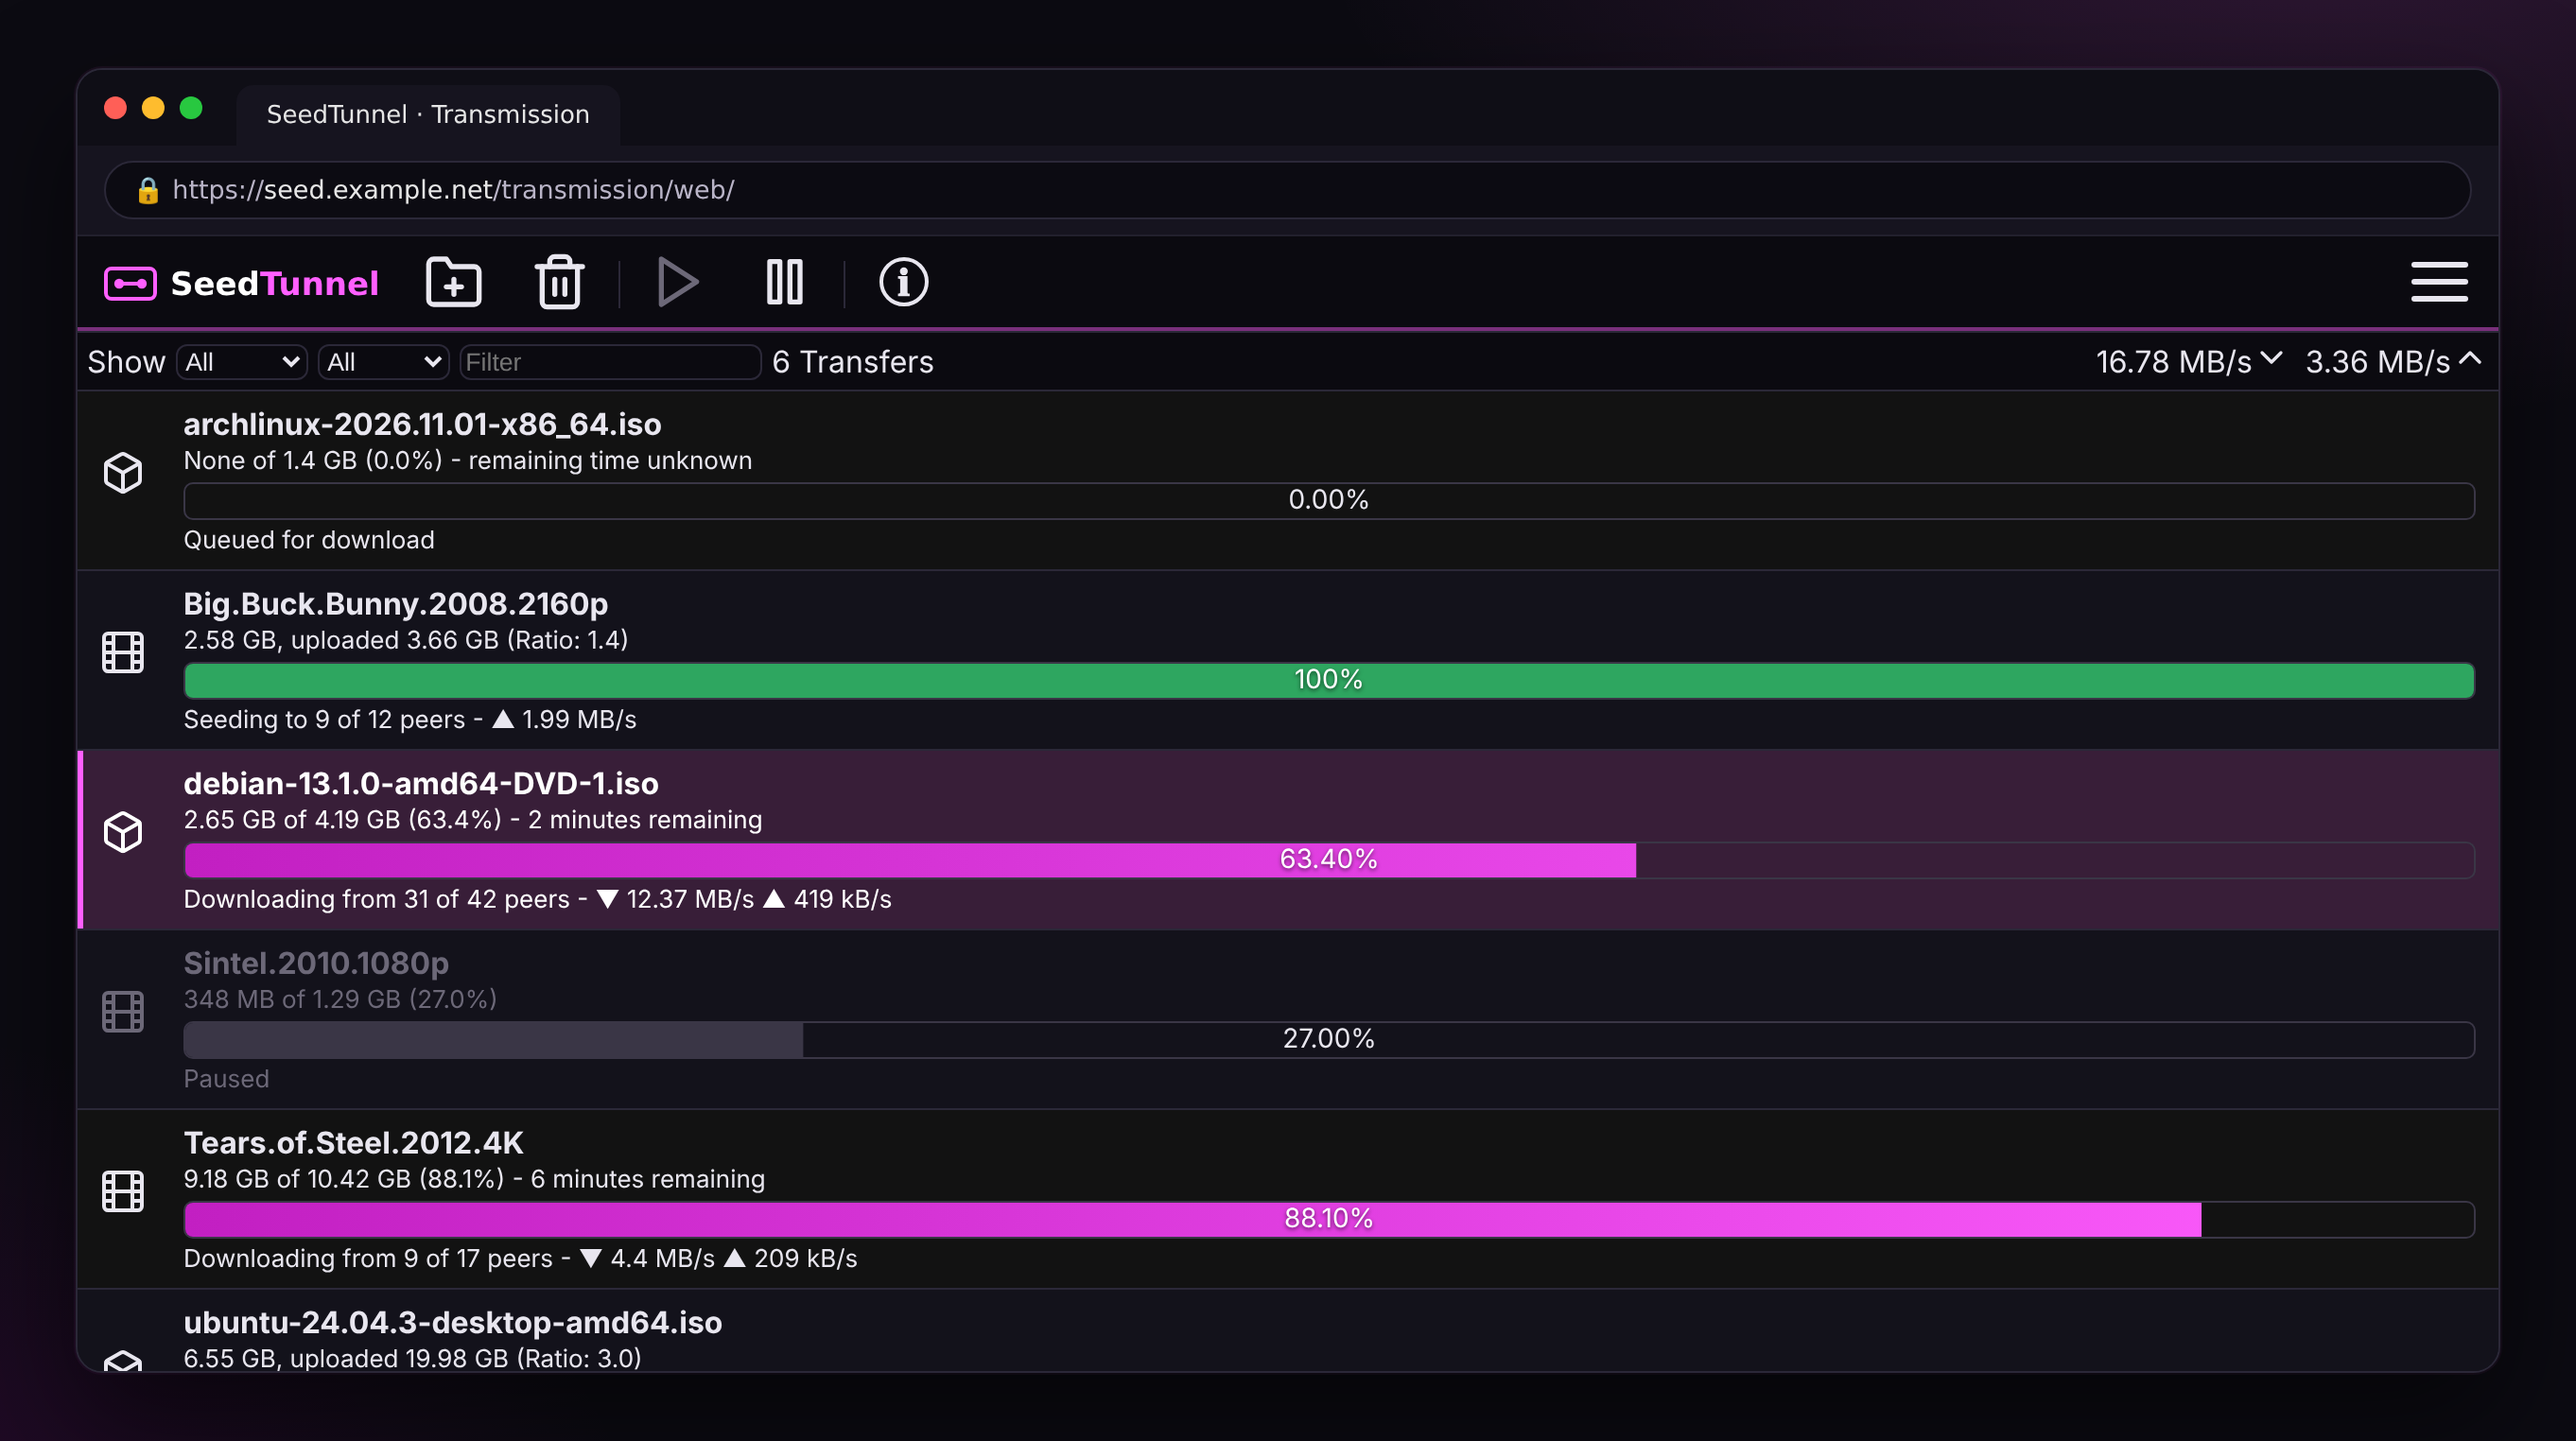
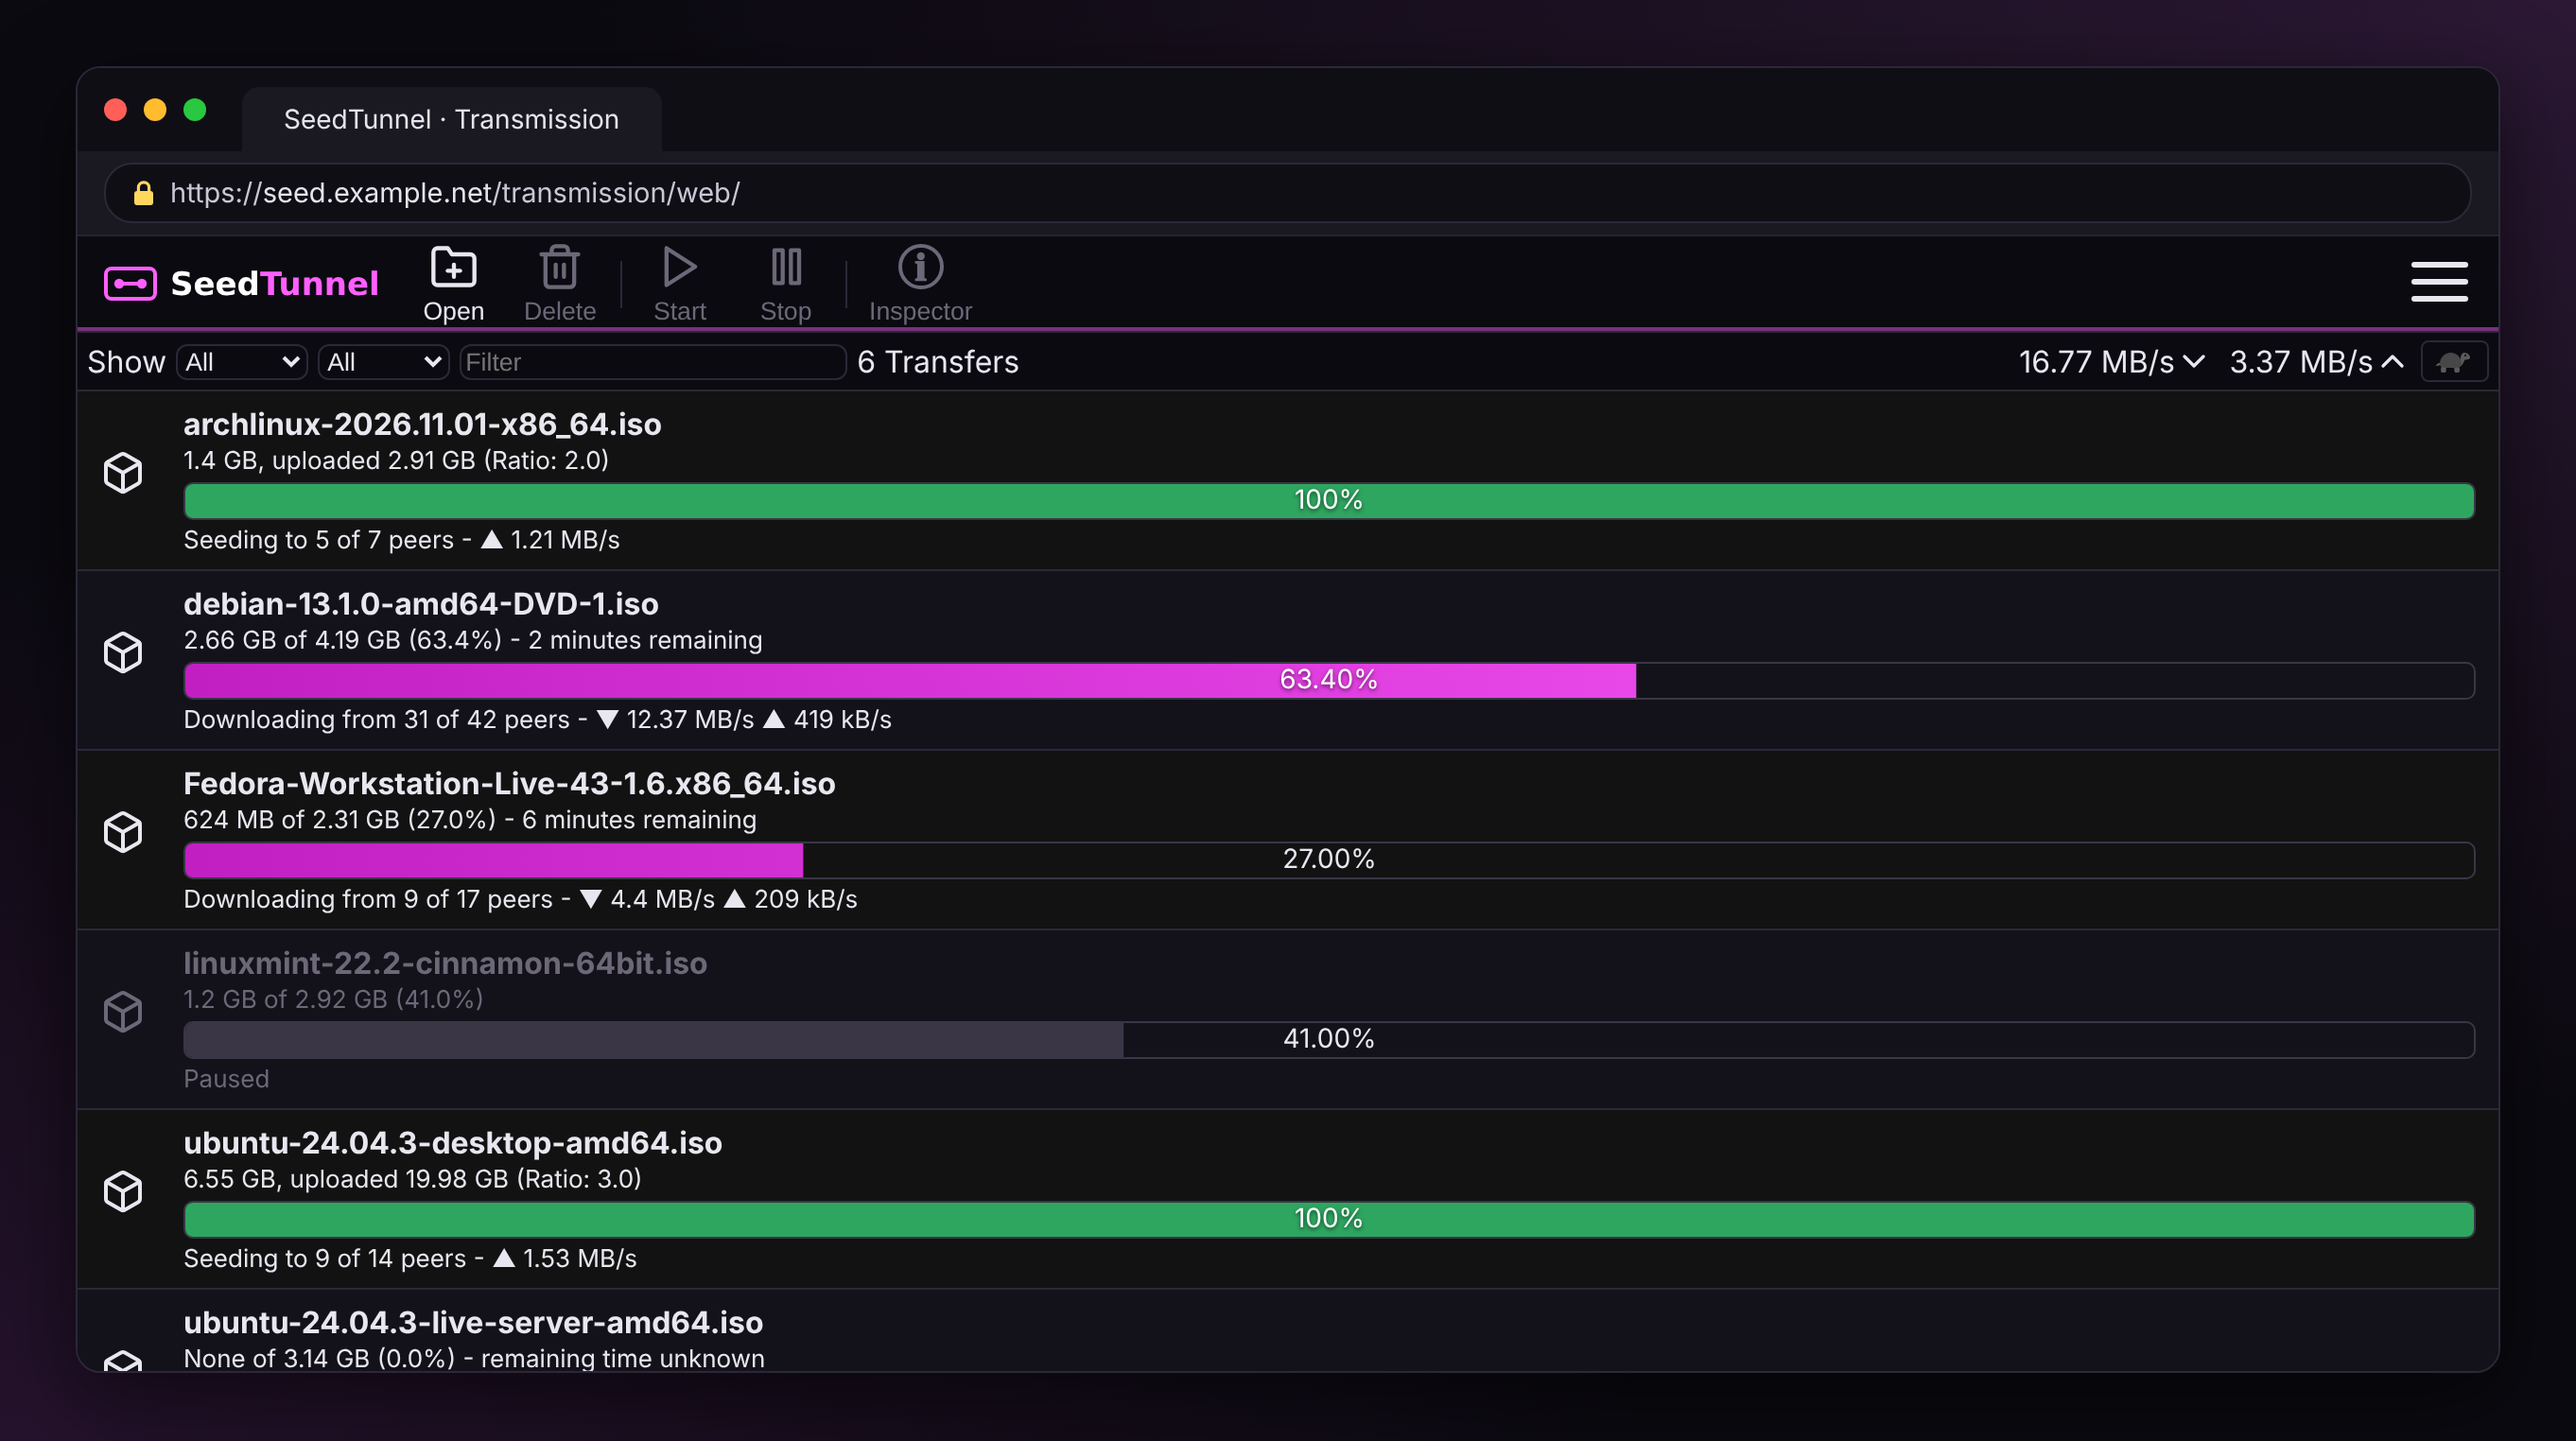
1.0.3: download bars drawn again on Transmission 4.0; new capture of the web interface

diff --git a/web/transmission-theme.css b/web/transmission-theme.css
@@ -46,7 +46,9 @@ html:root {
   --color-fg-error: #ff6b81;
   --color-fg-port-open: var(--st-green);
   --color-fg-port-closed: #ff6b81;
-  --color-progressbar-leech: linear-gradient(90deg, #c21fc2, var(--st-pink));
+  /* plain colors only: Transmission 4.0 puts these variables inside its own
+     gradient, and a gradient there makes the whole bar empty */
+  --color-progressbar-leech: var(--st-pink);
   --color-progressbar-queued: var(--st-magenta);
   --color-progressbar-paused: #3a3646;
   --color-progressbar-seed-1: #2ea660;
@@ -96,6 +98,12 @@ html:root {
 #torrent-list .torrent-progress-bar {
   border-radius: 5px;
   overflow: hidden;
+}
+/* Transmission 4.1 and later draw the part done in a ::before: there the
+   pink can be a gradient. Transmission 4.0 has no ::before, so this rule does
+   nothing there. Paused and queued keep their own colors. */
+#torrent-list .torrent-progress-bar.leech:not(.paused):not(.queued)::before {
+  background: linear-gradient(90deg, #c21fc2, var(--st-pink));
 }
 #torrent-list .torrent-name {
   font-weight: 600;

diff --git a/CHANGELOG.md b/CHANGELOG.md
@@ -14,6 +14,9 @@ versions follow [Semantic Versioning](https://semver.org/): MAJOR.MINOR.PATCH.
 - Site of the seedbox: any address that is neither the web interface nor a link (`/share` without its last `/`, a typo…) shows the page « Nothing here » once the password is given, instead of the « 404 Not Found » of nginx. The password is still asked first, and nothing of the default folder of nginx is served.
 - The log says when an update is installed (« Update: 1.0.2 → 1.0.3 installed ») and when `seedtunnel update back` goes back to the previous version. Written by the new version: from this update on.
 
+### Fixed
+- Web interface on Transmission 4.0 (Ubuntu 24.04): the bars of the downloads stayed empty, the percentage done was not drawn. The pink is now a plain color there; Transmission 4.1 and later (Debian 13) keep the pink gradient. New capture of the web interface, with example torrents.
+
 ## [1.0.2] - 2026-11-13
 
 ### Security
